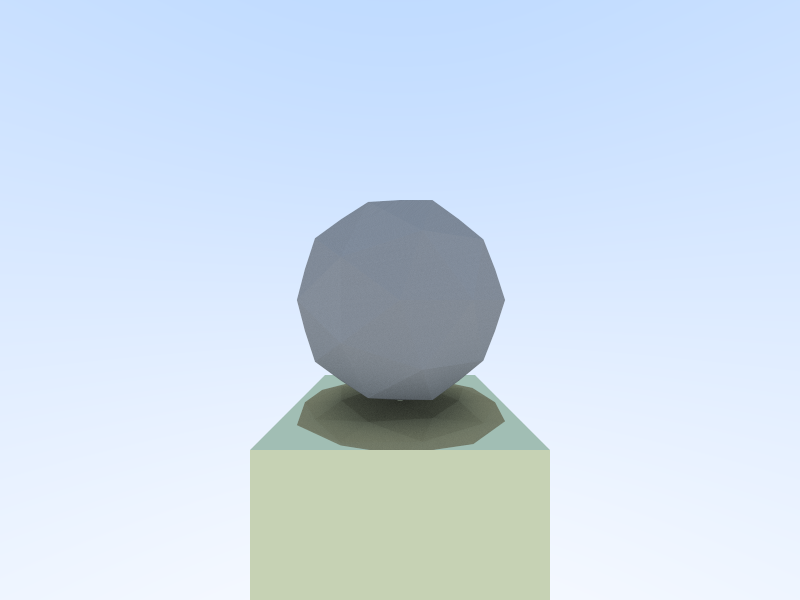
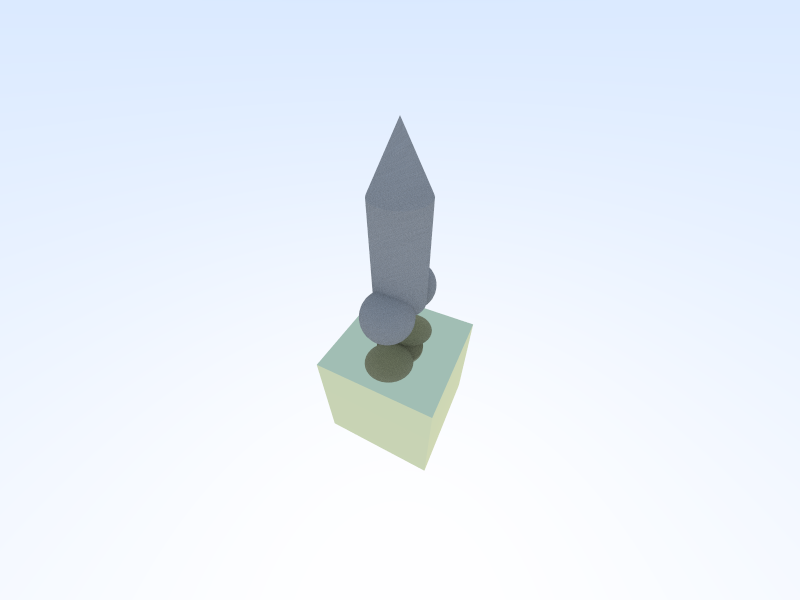
Updated a lot

Changed region(s): [[0.2812, 0.0, 0.7188, 1.0]]

diff --git a/PathTracer/Scene Management/Camera.cpp b/PathTracer/Scene Management/Camera.cpp
@@ -5,16 +5,28 @@
 #define _USE_MATH_DEFINES
 #include <math.h>
 
-float Camera::sm_vfox = 90.0f;
+float Camera::sm_vfov = 90.0f;
 
 Vector3 Camera::sm_position = Vector3(0.0f, 0.0f, 0.0f);
-float Camera::sm_focalLength = 1.0f;
+Vector3 Camera::sm_lookAt = Vector3(0.0f, 0.0f, 0.0f);
+
+float Camera::sm_defocusAngle = 0.0f;
+float Camera::sm_focusDist = 10.0f;
+
+Vector3 Camera::sm_up = Vector3(0.0f, 1.0f, 0.0f);
+
+Vector3 Camera::u = Vector3(0.0f, 0.0f, 0.0f);
+Vector3 Camera::v = Vector3(0.0f, 0.0f, 0.0f);
+Vector3 Camera::w = Vector3(0.0f, 0.0f, 0.0f);
 
 float Camera::sm_aspectRatio = 1.0f;
 
 Vector3 Camera::sm_pixel00Location = Vector3(0.0f, 0.0f, 0.0f);
 Vector3 Camera::sm_pixelDeltaU = Vector3(0.0f, 0.0f, 0.0f);
 Vector3 Camera::sm_pixelDeltaV = Vector3(0.0f, 0.0f, 0.0f);
+
+Vector3 Camera::sm_defocusDiskU = Vector3(0.0f, 0.0f, 0.0f);
+Vector3 Camera::sm_defocusDiskV = Vector3(0.0f, 0.0f, 0.0f);
 
 int Camera::sm_width = 0;
 int Camera::sm_height = 0;
@@ -35,15 +47,27 @@ void Camera::SetPosition(const Vector3& position)
     Recalculate();
 }
 
-void Camera::SetFocalLength(float focalLength)
+void Camera::SetVerticalFieldOfView(float vfov)
 {
-    sm_focalLength = focalLength;
+    sm_vfov = vfov;
     Recalculate();
 }
 
-void Camera::SetVerticalFieldOfView(float vfov)
+void Camera::SetLookAt(const Vector3& lookAt)
 {
-    sm_vfox = vfov;
+    sm_lookAt = lookAt;
+    Recalculate();
+}
+
+void Camera::SetDefocusAngle(float defocusAngle)
+{
+    sm_defocusAngle = defocusAngle;
+    Recalculate();
+}
+
+void Camera::SetFocusDistance(float focusDistance)
+{
+    sm_focusDist = focusDistance;
     Recalculate();
 }
 
@@ -52,24 +76,34 @@ Ray Camera::GetRay(int x, int y)
     Vector3 pixelLocation = sm_pixel00Location + sm_pixelDeltaU * (float)x + sm_pixelDeltaV * (float)y;
     Vector3 pixelDirection = (pixelLocation + PixelSampleSquare()) - sm_position;
 
-    return Ray(sm_position, pixelDirection);
+    Vector3 rayOrigin = (sm_defocusAngle <= 0) ? sm_position : PixelSampleDisk();
+
+    return Ray(rayOrigin, pixelDirection);
 }
 
 void Camera::Recalculate()
 {
-    float theta = sm_vfox * (float)M_PI / 180.0f;
-    float h = tan(theta / 2.0f);
-    float viewportHeight = 2.0f * h * sm_focalLength;
+    float theta = Utility::DegreesToRadians(sm_vfov);
+    float h = tan(theta / 2);
+    float viewportHeight = 2.0f * h * sm_focusDist;
     float viewportWidth = sm_aspectRatio * viewportHeight;
 
-    Vector3 viewportU = Vector3(viewportWidth, 0.0f, 0.0f);
-    Vector3 viewportV = Vector3(0.0f, -viewportHeight, 0.0f);
+    w = Vector3::Normalize(sm_position - sm_lookAt);
+    u = Vector3::Normalize(Vector3::Cross(sm_up, w));
+    v = Vector3::Cross(w, u);
+
+    Vector3 viewportU = viewportWidth * u;
+    Vector3 viewportV = viewportHeight * -v;
 
     sm_pixelDeltaU = viewportU / (float)sm_width;
     sm_pixelDeltaV = viewportV / (float)sm_height;
 
-    Vector3 viewportTopLeft = sm_position - viewportU / 2.0f - viewportV / 2.0f - Vector3(0.0f, 0.0f, sm_focalLength);
-    sm_pixel00Location = viewportTopLeft + sm_pixelDeltaU / 2.0f + sm_pixelDeltaV / 2.0f;
+    auto viewportUpperLeft = sm_position - (sm_focusDist * w) - viewportU / 2 - viewportV / 2;
+    sm_pixel00Location = viewportUpperLeft + 0.5f * (sm_pixelDeltaU + sm_pixelDeltaV);
+
+    auto defocusRadius = sm_focusDist * tan(Utility::DegreesToRadians(sm_defocusAngle / 2));
+    sm_defocusDiskU = defocusRadius * u;
+    sm_defocusDiskV = defocusRadius * v;
 }
 
 Vector3 Camera::PixelSampleSquare()
@@ -77,4 +111,10 @@ Vector3 Camera::PixelSampleSquare()
     float px = -0.5f + Utility::RandomFloat();
     float py = -0.5f + Utility::RandomFloat();
     return (px * sm_pixelDeltaU) + (py * sm_pixelDeltaV);
+}
+
+Vector3 Camera::PixelSampleDisk()
+{
+    Vector3 p = Vector3::RandomInUnitDisk();
+    return sm_position + (p.x * sm_defocusDiskU) + (p.y * sm_defocusDiskV);
 }

diff --git a/PathTracer/Pathtracer.cpp b/PathTracer/Pathtracer.cpp
@@ -18,9 +18,15 @@ void Pathtracer::RaytraceScene(Scene* scene)
 {
     BS::thread_pool pool(std::thread::hardware_concurrency() - 2);
     
+    int totalPixels = m_width * m_height;
+    std::atomic<int> processedPixels(0);
+    
+    int updateInterval = totalPixels / 100;  // Update every 1% progress
+    
     for (int y = 0; y < m_height; y++)
     {
-        pool.submit([this, scene, y]
+        // ReSharper disable once CppNoDiscardExpression
+        pool.submit([this, scene, y, &processedPixels, updateInterval, totalPixels]
         {
             for (int x = 0; x < m_width; x++)
             {
@@ -39,11 +45,24 @@ void Pathtracer::RaytraceScene(Scene* scene)
                 color.z = sqrtf(scale * color.z);
 
                 m_image.SetPixel(x, y, color);
+
+                // Update the processed pixel count
+                int pixelsProcessed = ++processedPixels;
+
+                // Update the progress bar at specified intervals
+                if (pixelsProcessed % updateInterval == 0 || pixelsProcessed == totalPixels)
+                {
+                    float progress = static_cast<float>(pixelsProcessed) / totalPixels * 100;
+                    std::cout << "\rProgress: " << std::fixed << std::setprecision(2) << progress << "%";
+                    std::cout.flush();
+                }
             }
         });
     }
 
     pool.wait_for_tasks();
+
+    std::cout << "\rProgress: 100.00%" << std::endl;
 
     m_image.Save("output.png");
 }

diff --git a/PathTracer/Scene Management/Camera.h b/PathTracer/Scene Management/Camera.h
@@ -8,26 +8,41 @@ public:
     static void Initialize(int width, int height);
     
     static void SetPosition(const Vector3& position);
-    static void SetFocalLength(float focalLength);
     static void SetVerticalFieldOfView(float vfov);
+    static void SetLookAt(const Vector3& lookAt);
+    static void SetDefocusAngle(float defocusAngle);
+    static void SetFocusDistance(float focusDistance);
 
     static Ray GetRay(int x, int y);
     
 private:
     static void Recalculate();
-
+    
     static Vector3 PixelSampleSquare();
+    static Vector3 PixelSampleDisk();
 
-    static float sm_vfox;
+    // User editable:
+    static float sm_vfov;
     
     static Vector3 sm_position;
-    static float sm_focalLength;
+    static Vector3 sm_lookAt;
+
+    static float sm_defocusAngle;
+    static float sm_focusDist;
+    
+    // Internal:
+    static Vector3 sm_up;
+
+    static Vector3 u, v, w;
 
     static float sm_aspectRatio;
 
     static Vector3 sm_pixel00Location;
     static Vector3 sm_pixelDeltaU;
     static Vector3 sm_pixelDeltaV;
+
+    static Vector3 sm_defocusDiskU;
+    static Vector3 sm_defocusDiskV;
 
     static int sm_width;
     static int sm_height;

diff --git a/PathTracer/main.cpp b/PathTracer/main.cpp
@@ -3,17 +3,22 @@
 #include "Scene Management/Objects/RawMesh.h"
 #include "Scene Management/Material.h"
 #include "Scene Management/Objects/Mesh.h"
+#include "Util/Utility.h"
 
 int main(int argc, char* argv[])
 {
     Pathtracer pathtracer = Pathtracer(800, 600);
+    
+    Utility::SamplesPerPixel = 256;
+    Utility::MaxDepth = 12;
 
-    Camera::SetPosition(Vector3(0, 0, 3.f));
+    Camera::SetPosition(Vector3(-3, 3, 1.5));
+    Camera::SetLookAt(Vector3(0, 0, 0));
 
     Scene* scene = new Scene();
 
     Mesh* cube = new Mesh("cube.fbx", Vector3(0, -2, 0), new Metal(Vector3(0.8f, 0.8f, 0.5f), 0.8f));
-    Mesh* sphere = new Mesh("sphere.fbx", Vector3(0, 0, 0), new Lambertian(Vector3(0.5f, 0.5f, 0.5f)));
+    Mesh* sphere = new Mesh("dick.fbx", Vector3(0, 0, 0), new Lambertian(Vector3(0.5f, 0.5f, 0.5f)));
 
     scene->AddObject(cube);
     scene->AddObject(sphere);

diff --git a/PathTracer/Util/Utility.cpp b/PathTracer/Util/Utility.cpp
@@ -1,5 +1,6 @@
 #include "Utility.h"
 
+#include <corecrt_math_defines.h>
 #include <cstdlib>
 
 int Utility::SamplesPerPixel = 1024;
@@ -22,4 +23,9 @@ float Utility::Clamp(float value, float min, float max)
     if (value < min) return min;
     if (value > max) return max;
     return value;
+}
+
+float Utility::DegreesToRadians(float degrees)
+{
+    return degrees * (float)M_PI / 180.0f;
 }

diff --git a/PathTracer/Math/Vector3.cpp b/PathTracer/Math/Vector3.cpp
@@ -139,6 +139,15 @@ Vector3 Vector3::RandomInUnitSphere()
     }
 }
 
+Vector3 Vector3::RandomInUnitDisk()
+{
+    while (true)
+    {
+        Vector3 p = Vector3(Utility::RandomFloat(-1, 1), Utility::RandomFloat(-1, 1), 0);
+        if (LengthSquared(p) < 1) return p;
+    }
+}
+
 Vector3 Vector3::RandomInUnitVector()
 {
     return Normalize(RandomInUnitSphere());

diff --git a/PathTracer/Math/Vector3.h b/PathTracer/Math/Vector3.h
@@ -35,6 +35,7 @@ public:
     static Vector3 Random(float min, float max);
     static Vector3 RandomUnitVector();
     static Vector3 RandomInUnitSphere();
+    static Vector3 RandomInUnitDisk();
     static Vector3 RandomInUnitVector();
     static Vector3 RandomInHemisphere(Vector3 normal);
 

diff --git a/PathTracer/Util/Utility.h b/PathTracer/Util/Utility.h
@@ -12,4 +12,6 @@ public:
     static float RandomFloat(float min, float max);
 
     static float Clamp(float value, float tMin, float tMax);
+
+    static float DegreesToRadians(float degrees);
 };
